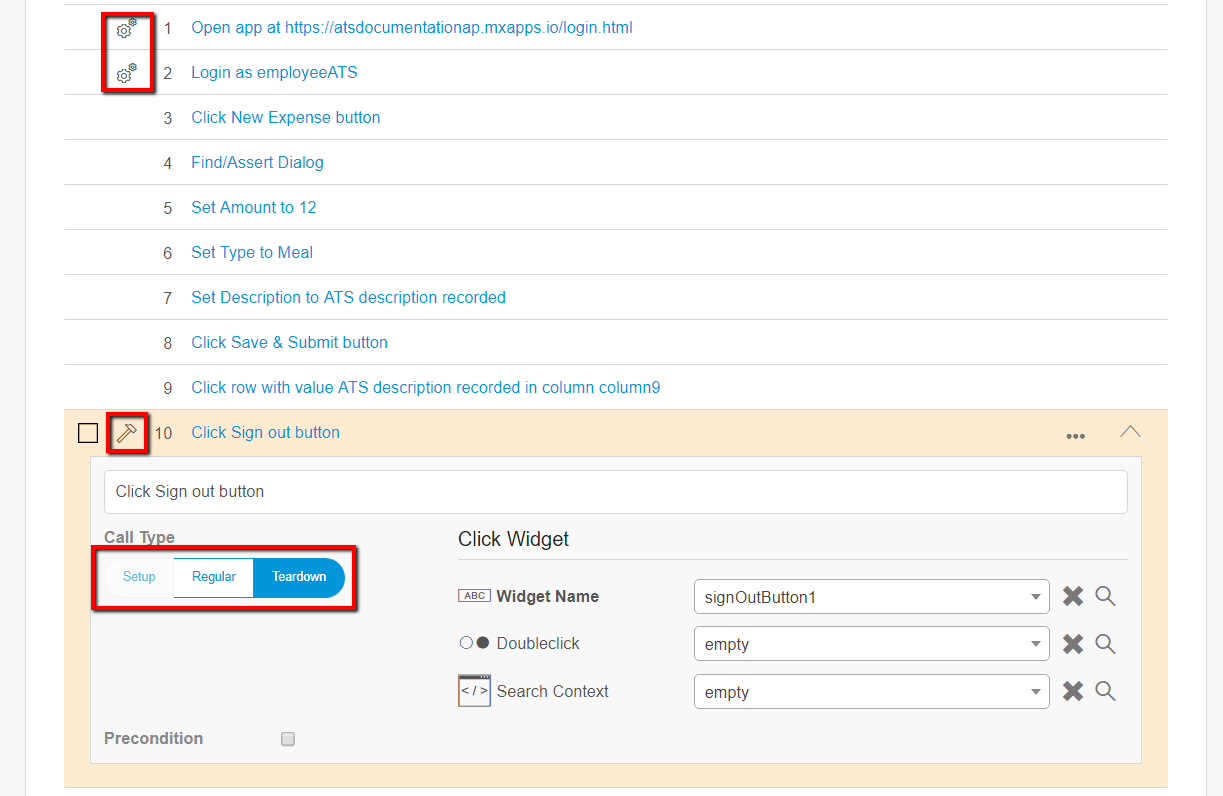
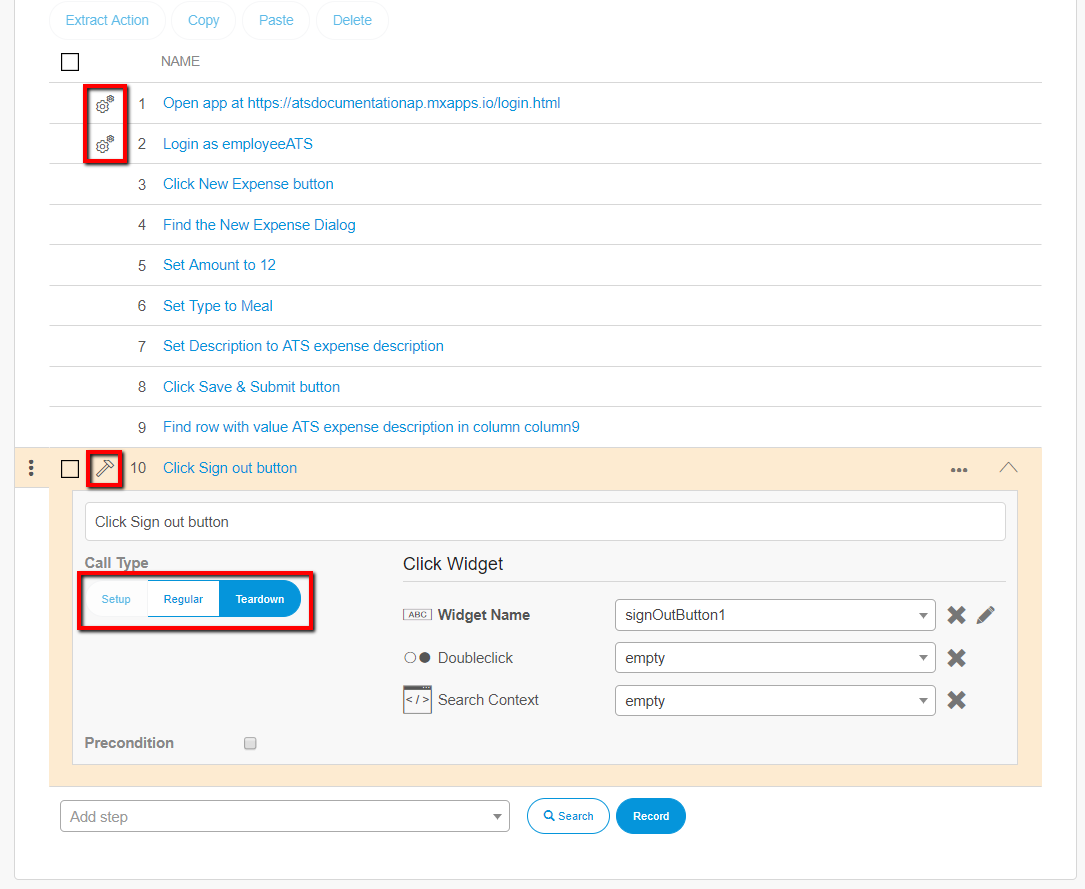
How to create a test case updated

Changed region(s): [[0.0, 0.0, 0.9733, 0.995], [0.365, 0.603, 0.4866, 0.8141]]

diff --git a/ats-public-documentation/howtos/ht-version-2/create-a-test-case-2.md b/ats-public-documentation/howtos/ht-version-2/create-a-test-case-2.md
@@ -7,7 +7,7 @@ tags: ["ATS", "testing"]
 
 ## 1 Introduction
 
-This how-to explains how to create a test case, add test steps manually, and add test steps using the ATS Recorder. A test case consists of test steps that contain actions. Each action (like clicking a button) performs a task.
+This how-to explains how to create a test case, add test steps manually and add test steps using the ATS Recorder. A test case consists of test steps that contain actions. Each action (like clicking a button) performs a task.
 
 This how-to uses the Mendix Company Expenses app as an example, and you will create a test case that submits a new expense in this app. You create the same test case twice, once manually, and once with the ATS Recorder. 
 
@@ -72,16 +72,11 @@ The first step is opening the Company Expenses app, which you do by entering a U
 
     ![](attachments/create-a-test-case-2/test-case-page-add-description.png)
 
-4. Add the URL of the application you want to test by clicking the **magnifying glass**.
+4. Add the URL of the application you want to test by clicking the dropdown of the input parameter **Application URL**. In the dropdown select the **Environment URL** below the **Global constant**. 
 
-    ![](attachments/create-a-test-case-2/test-case-page-add-application-URL.png)
+    ![](attachments/create-a-test-case-2/open-input-value-dropdown.png)
   
     This will open the **Edit Input Value** dialog box.
-5. Select **Global Constant**.
-6. Select **Application URL**.
-7. Click **Save**:
-
-    ![](attachments/create-a-test-case-2/open-app-input-value-e.png)
 
     ATS now uses the application URL you selected in the **Run Configuration** application.
     
@@ -108,14 +103,14 @@ The first step is opening the Company Expenses app, which you do by entering a U
     ![](attachments/create-a-test-case-2/click-widget-new-expense.png)
 
 14. Add a description in **Describe your test step here**
-15. Click the **magnifying glass** of the **Widget Name** input parameter.
+15. Click the **Edit icon** of the **Widget Name** input parameter.
 
-![](attachments/create-a-test-case-2/click-widget-action-magnifyinglass.png)
+![](attachments/create-a-test-case-2/click-widget-action-edit-icon-c.png)
 
-16. Click **constant** (1) and add the widget name displayed in the ATS Helper (2)
-16. Click **Save** (3):
+16. Add the widget name displayed in the ATS Helper (1)
+16. Click **Save** (2):
 
-    ![](attachments/create-a-test-case-2/new-expense-input-parameter-e.png)
+    ![](attachments/create-a-test-case-2/new-expense-input-parameter-edited.png)
 
 19. After clicking **New Expense** in the Company Expenses app, a dialog box opens called **New Expense**:
 
@@ -246,7 +241,8 @@ To add test steps using the ATS Recorder, follow these steps:
 
     Note that you can also add actions manually between recording sessions. 
 
-14.  Click the **Dialog Title** input parameter and add the title of the dialog box:
+14.  Add a description in **Describe your test step here**.
+15. Click the **Dialog Title** input parameter and add the title of the dialog box:
     ![](attachments/create-a-test-case-2/new-expense-dialog-action-input-parameters-recorder.png)
 
 15.  For the logout, you can choose to keep the recorded click on the **Sign Out** button or replace it with the **Logout** action.
